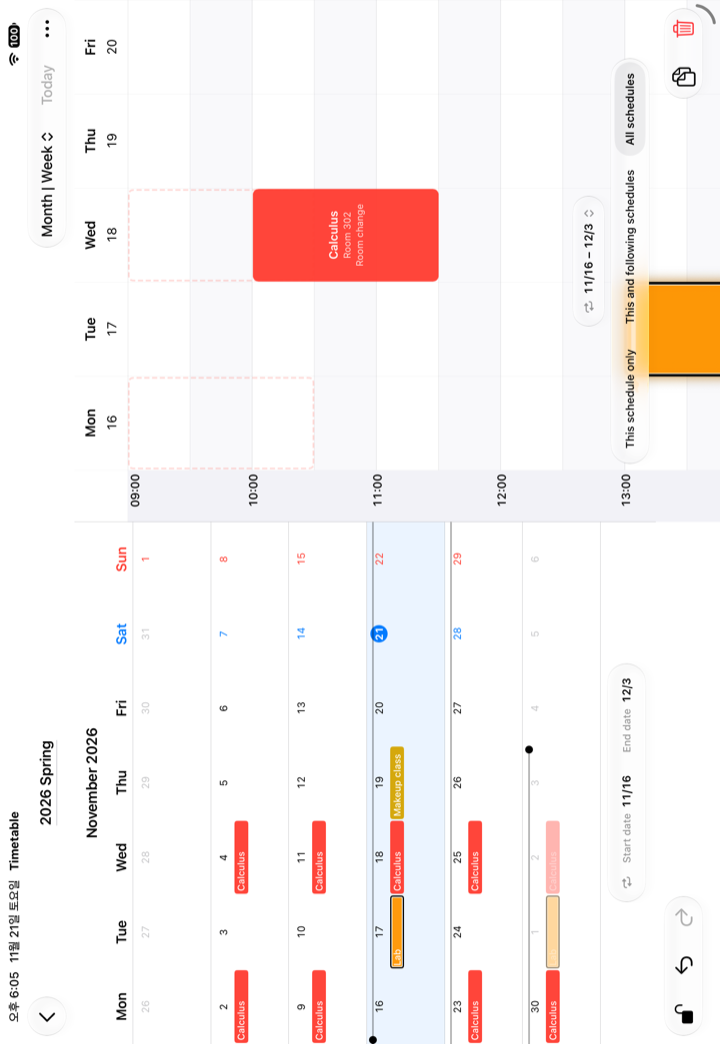
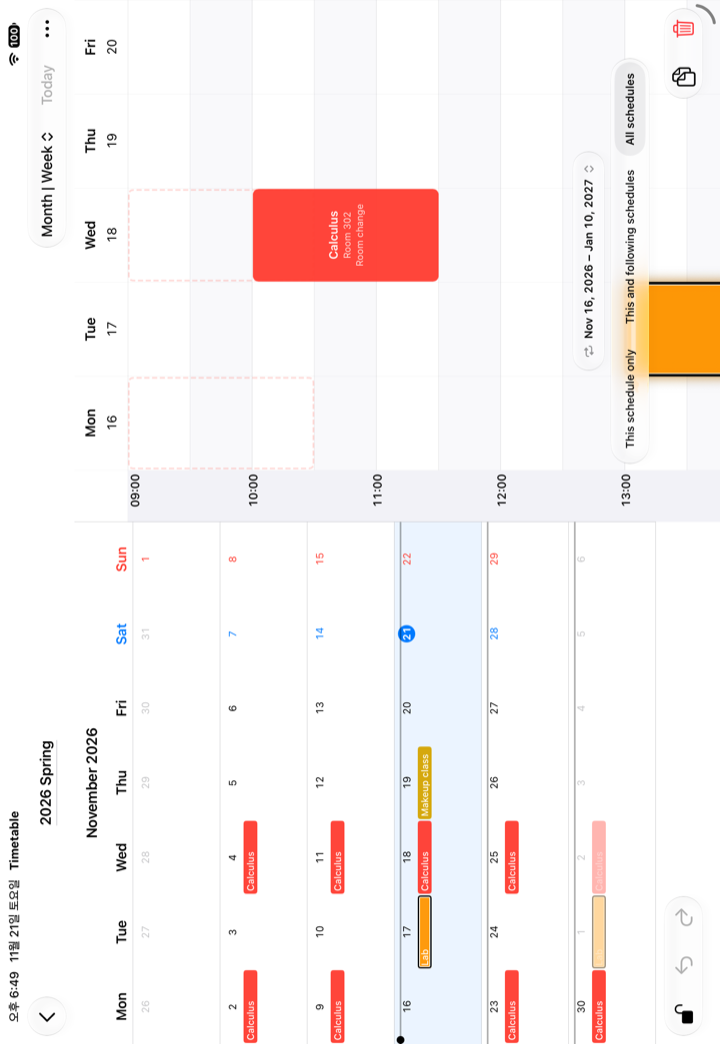
improve: blog — 시간표 캘린더 2026-11-21 섹션을 정리 뒤 모습으로 (기간 시트 · 월 보기 칸 걷음, 편집 시트 박자 맞춤)
Claude-Session: https://claude.ai/code/session_01UreDqo832rbEhHWWX6AaNy

diff --git a/src/content/blog/en/2026-11-09-timetable-calendar-plan.md b/src/content/blog/en/2026-11-09-timetable-calendar-plan.md
@@ -1,6 +1,6 @@
 ---
 title: "A calendar on top of the timetable — alternating weeks and \"this day only\" changes"
-date: 2026-11-21T18:09:30+09:00
+date: 2026-11-21T18:56:38+09:00
 app: "timetable"
 tags: ["devlog", "swiftui", "data", "android"]
 summary: "Assign a timetable to each week (alternating weeks included) and keep cancellations and makeup classes on their dates only. The grid was reused as is."
@@ -1034,25 +1034,31 @@ Tapping the chip opens three actions, anchored on the occurrence you selected:
 |---|---|
 | Start from (that day) | earlier occurrences go away |
 | End on (that day) | later occurrences go away |
-| Choose Dates… | start and end fields over a month calendar, saved with the checkmark |
+| Choose Dates… | opens the edit sheet at its Repeat card |
 
 ![The period chip menu — Choose Dates, End on, Start from](/blog/2026-11-09-timetable-calendar-plan/period-chip-menu.png)
 
 Changing the period never asks for a scope: the period belongs to the whole series. It also keeps the pattern. A biweekly event anchors its "on" weeks to the week of its start date, so moving only the start date by a week would flip every week. The chip aligns the stored start to the first slot on or after the day you picked, so the first occurrence is what you expect.
 
-In the wide landscape month-and-week layout the month pane draws the period too: a thin line along the top edge of each day in the period, a knot at each end, and start and end fields under the grid. Tap a field, then tap a date.
+In the wide landscape month-and-week layout the month pane draws the period too: a thin line along the top edge of each day in the period with a knot at each end. It is display only.
 
-![iPad landscape — the month pane shows the period line with end knots and the start/end fields under the grid; the week pane shows the same period in its chip](/blog/2026-11-09-timetable-calendar-plan/month-period-band.png)
+![iPad landscape — the month pane shows the period line with end knots; the week pane shows the same period in its chip](/blog/2026-11-09-timetable-calendar-plan/month-period-band.png)
 
-What lost:
+### Later the same day, half of it came back out
 
-- **Draggable handles on the month line.** Month view already uses vertical swipes to change months and a long press to move a chip; a third gesture would fight both, and you cannot drag to a date in another month. Taps work across months.
-- **Dropping "this and following" for a separate "split here".** Cleaner model, but a common edit becomes two steps.
-- **A confirmation when shortening.** One undo brings everything back.
+The first version had more: "Choose Dates…" opened its own calendar sheet, and the month pane had start and end fields under the grid that you tapped before tapping a date. Then came the question: is this really better than the edit sheet?
 
-Two things the screenshots caught: the start and end fields first floated over the grid and covered the last week, so those dates could not be picked; they now sit in their own row. And the "tap a date" hint was unreadable over event titles until it got its own glass background.
+Partly. Seeing the period, and ending a series in two taps, beats the edit sheet. But the separate sheet was the same calendar the edit sheet already has, and the month fields were a mode you had to learn that also shrank the grid.
 
-Verified on iPhone and iPad simulators only.
+So the edit sheet is the one place where the period is edited. The chip shows the period and keeps its two shortcuts, and "Choose Dates…" opens the edit sheet scrolled to its Repeat card (disabled for "this event only", where that card is locked).
+
+![Choose Dates opens the edit sheet at the Repeat card — interval, weekdays, start and end dates, calendar](/blog/2026-11-09-timetable-calendar-plan/period-opens-edit.png)
+
+That exposed a mismatch: the chip kept a biweekly event's "on" weeks, while moving the start date in the edit sheet flipped them. The edit sheet now keeps the beat too when only the period changes; change the weekdays or interval as well and the picked start date becomes the new anchor.
+
+What lost: the separate period sheet and the month fields (duplicates of the edit sheet), draggable handles on the month line (they fight the month swipe and chip long-press), dropping "this and following" (a common edit becomes two steps), and a confirmation when shortening (one undo brings it back).
+
+Verified on iPhone and iPad simulators; the edit-sheet change is covered by unit tests only.
 
 ## History
 
@@ -1099,4 +1105,4 @@ Verified on iPhone and iPad simulators only.
 - 2026-11-20 — holding a dragged block at the left/right edge for 0.7s changes weeks (one-off events and "this event only" occurrences; one undo; the week swaps in place). In month view a 0.4s press lifts the nearest chip to drop on another date — a repeating occurrence moves alone, with Undo in the toast.
 - 2026-11-20, later — an occurrence moved to another week leaves a faint dashed outline with its destination date in the original week; long-press the outline to bring it back.
 - 2026-11-20, evening — a thread now runs from the outline of a moved-away occurrence off the edge toward its destination week, and from the moved block back toward its original week.
-- 2026-11-21 — dragging a repeating event changes only its pattern; the period is edited from a chip above the scope bar (start from / end on that day / choose dates, no scope question, biweekly phase kept). The wide month-and-week layout draws the period on the month pane with start/end fields under the grid — tap a field, then a date.
+- 2026-11-21 — dragging a repeating event changes only its pattern. The period shows on a chip above the scope bar with two shortcuts (start from / end on that day, no scope question, biweekly phase kept); "Choose Dates…" opens the edit sheet at its Repeat card (a separate period sheet and month-pane date fields were removed the same day). The wide month-and-week layout draws the period line on the month pane. The edit sheet keeps the beat when only the period changes.
